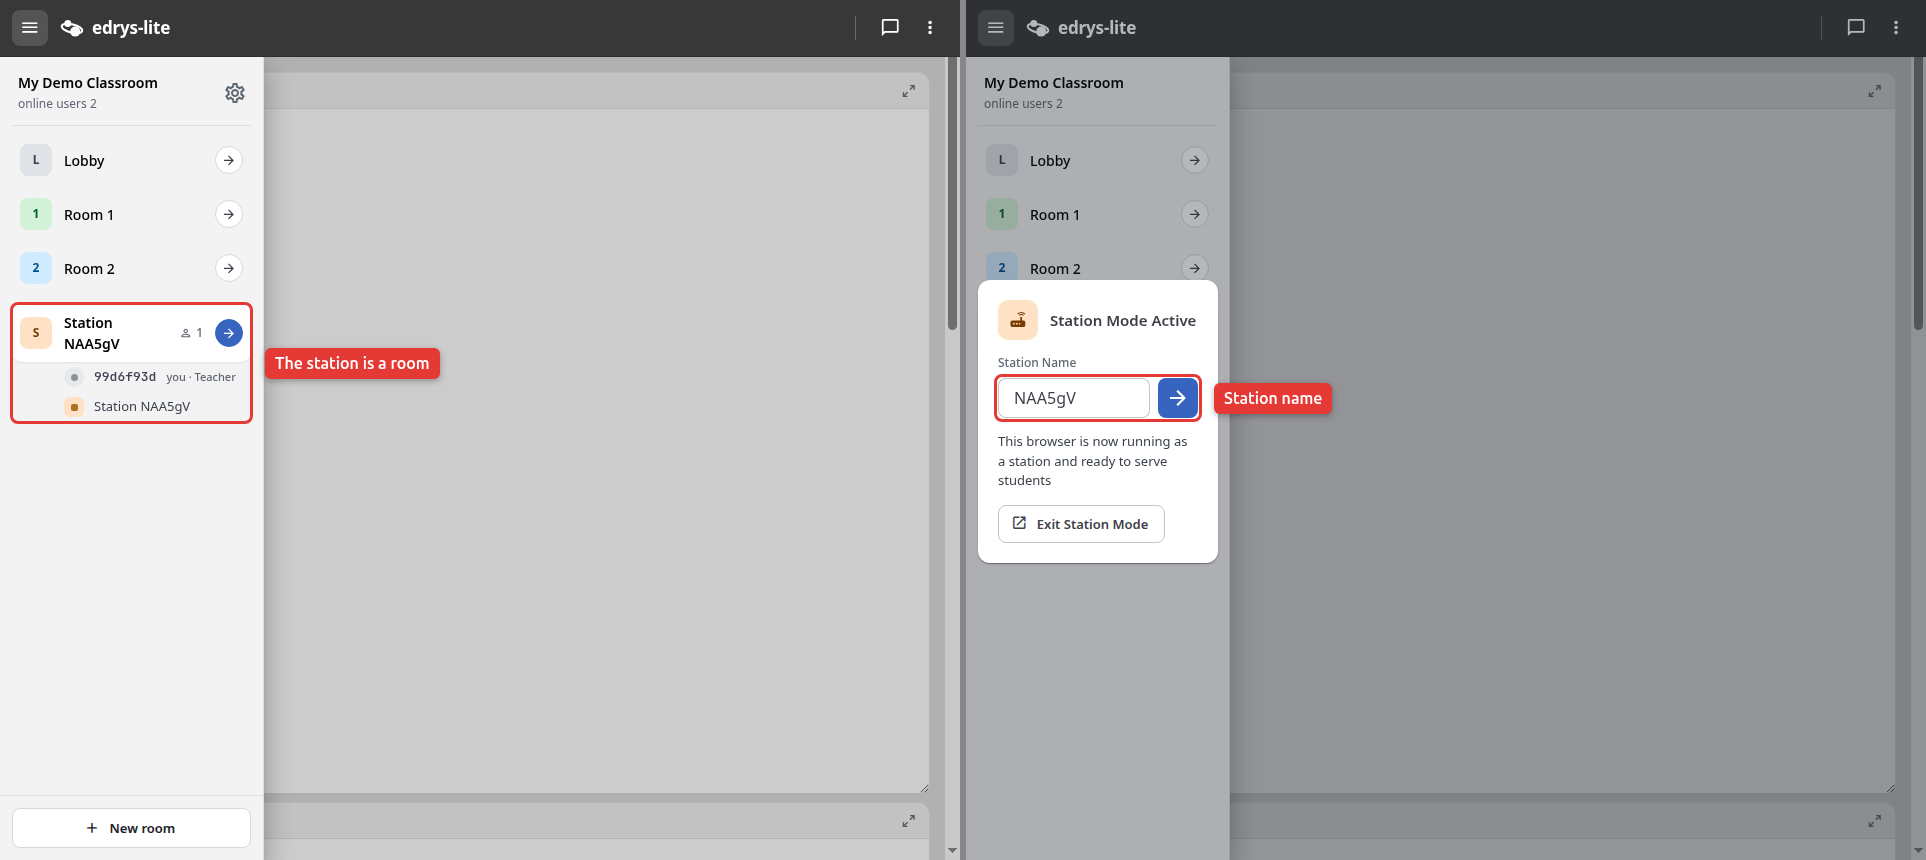
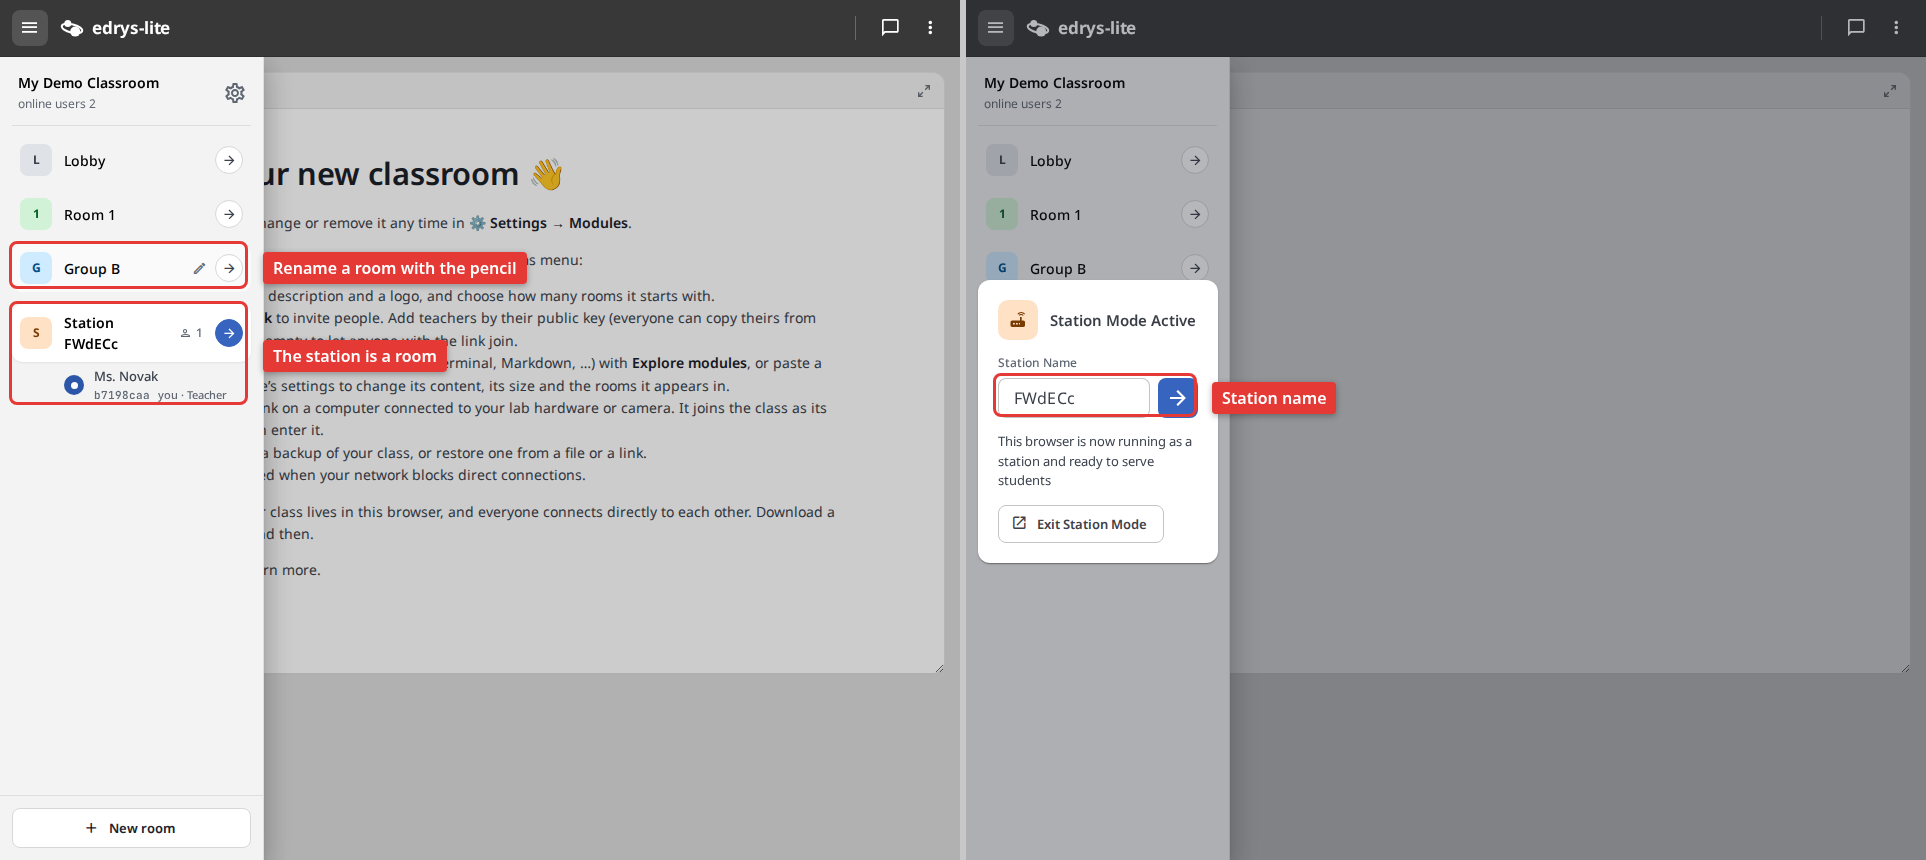
Document room renaming and user display names, update screenshots

diff --git a/README.md b/README.md
@@ -107,6 +107,8 @@ A short version of the ID is shown there; the copy button next to it copies the 
 - Your ID is tied to **this browser**. Another browser, another device, or a private window gives you a different ID.
 - Clearing the site data of your browser deletes your ID and the classrooms stored in it. Download a backup of your classrooms first (see [Backup, Restore and Templates](#Backup%2C-Restore-and-Templates)).
 - The same menu also lets you switch the language of the interface and the theme: `Light`, `Dark`, or `System` to follow your device.
+- In the `Display name` field of the menu you can choose the name others see, up to 32 characters. It is saved in this browser and applies in every classroom; clear the field to go back to your short ID. Stations have their own names (see [Opening a Station](#Opening-a-Station)).
+- A display name is not checked and does not have to be unique, so the short ID always stays visible next to it. Your role never depends on your name: someone called "Teacher" is still shown as a student.
 
 </section>
 
@@ -115,7 +117,7 @@ A short version of the ID is shown there; the copy button next to it copies the 
     --{{0}}--
 Visit https://edrys-labs.github.io and click on `Create a class`.
 By the way, the buttons in the footer lead to the project on GitHub, to this documentation and to the blog.
-The menu with the three dots (⋮) in the top right corner holds your User ID, the language and the theme.
+The menu with the three dots (⋮) in the top right corner holds your User ID, your display name, the language and the theme.
 
 ![edrys-lite](images/edrys-page.png)
 
@@ -193,7 +195,9 @@ The number of rooms defines how many numbered rooms (Room 1, Room 2, ...) the cl
 - Raising the number adds the new rooms as soon as you save.
 - Lowering it removes the rooms above the new number. People in a removed room are moved back to the Lobby.
 - A classroom can have up to 50 rooms.
-- The owner can also add a room with the `New room` button at the bottom of the room list.
+- The owner and teachers can also add a room with the `New room` button at the bottom of the room list.
+- The owner and teachers can rename a numbered room with the pencil button that appears when you point at it in the room list, for example `Room 2` to `Group B`. Clear the name to go back to the number. The modules of the room and their content stay as they are.
+- A room name can have up to 40 characters and must be unique. It cannot contain `,` or `*`, and it cannot be `Lobby`, `Station ...` or `Room <number>`.
 
 </section>
 
@@ -304,6 +308,7 @@ Below them, the `As text` field shows the same as a comma separated list, which 
     --{{1}}--
 For example, `lobby, Room 1, Room 2` shows a module in the Lobby and the first two rooms, and `station, station-only` shows it only to the station device, e.g. for a hardware connection that students should not see.
 `teacher-only` and `station-only` have no button; type them into the text field.
+A renamed room matches both its new name and its number, so `Group B` and `Room 2` mean the same room and existing labs keep working. A module that lists a room by a name you later change stops showing there; edrys-lite warns you about this when you rename the room.
 If no module is configured for a room, the room shows a short note instead.
 
 
@@ -431,8 +436,8 @@ Each room has its own state, so different groups can work in different rooms wit
 
 <section>
 
-- **Room list:** Below each room you see who is in it. You are marked with `you`, and teachers and visitors with their role; everyone else is a student. Stations have their own mark.
-- **Chat:** The chat button in the top bar opens the classroom chat. A badge tells you when new messages have arrived. Messages can be formatted with Markdown.
+- **Room list:** Below each room you see who is in it. Someone who chose a display name is shown with it, and their short ID below. Your own row has a colored circle and is marked with `you`, and teachers and visitors with their role; everyone else is a student. Stations have their own mark.
+- **Chat:** The chat button in the top bar opens the classroom chat. A badge tells you when new messages have arrived. Messages can be formatted with Markdown. Each message shows the display name its author had when sending it, next to their short ID.
 - **Full screen:** The button in the top right corner of a module expands it to the whole window; press it again to leave full screen.
 - **Connection:** If your connection to the classroom is lost, a `Reconnecting…` notice appears in the top bar. edrys-lite reconnects by itself.
 
@@ -836,6 +841,7 @@ edrys-lite works without user accounts and without a central server that stores 
 - **No tracking:** There is no sign-up, no password, and no data collection. Classrooms are stored in the browsers of their participants.
 - **Signed changes:** The classroom setup, the rooms, the chat and who is present are signed with the key of their author. Every participant's browser checks these signatures and ignores anything that was not signed by someone allowed to make that change.
 - **Owner check:** The owner part of the classroom link lets a newcomer verify that the setup comes from the real owner.
+- **Display names:** Anyone can choose any display name. To be sure who someone is, go by the short ID and the role shown next to it.
 - **Members list:** Only teachers can change the setup. If you list your students, nobody else can take part (see [Members](#Members)).
 - **Safe content:** Chat messages and descriptions are shown as text, so they cannot run code in other people's browsers. Modules run isolated from the classroom page.
 - **Tutor:** Only if a teacher switches it on, an AI on that teacher's computer answers students' questions. The conversation is encrypted between the student and the teacher's tab, and the teacher can read it (see [The Tutor for Students](#The-Tutor-for-Students)).
@@ -1238,7 +1244,7 @@ This reactive state object represents the overall classroom environment by provi
 
 ```js
 // Users currently present in the classroom, keyed by their ID:
-// { "<id>": { displayName, room, role }, ... }
+// { "<id>": { displayName, username, room, role }, ... }
 console.log(Edrys.liveClass.users);
 // Rooms of the classroom, keyed by room name, each with the shared
 // state of its modules: { "Lobby": { ... }, "Room 1": { ... }, ... }
@@ -1257,13 +1263,15 @@ console.log(Edrys.liveClass.rooms);
 __Reactive object representing the live room state.__
 
     --{{6}}--
-This reactive object holds the shared state of the current room, i.e. everything the modules in this room stored with `Edrys.getState`, as a plain object. It does not contain the room's name; that is `Edrys.liveUser.room`.
+This reactive object holds the shared state of the current room, i.e. everything the modules in this room stored with `Edrys.getState`, as a plain object. It does not contain the room's name; that is `Edrys.liveUser.room`, which stays `Room 2` when a teacher renames the room. To show the room's name to people, use `Edrys.roomLabel`.
 
 ```js
 // Shared state of the current room, keyed by state key
 console.log(Edrys.liveRoom);
-// Name of the current room
+// Name of the current room, for keys and comparisons
 console.log(Edrys.liveUser.room);
+// Name to show for the current room, which teachers can change
+console.log(Edrys.roomLabel);
 ```
 
 ---
@@ -1278,11 +1286,15 @@ console.log(Edrys.liveUser.room);
 __Reactive object representing the live user state.__
 
     --{{7}}--
-This reactive state object stores personalized data about the current user, such as their display name and the room they are occupying. It can be undefined for a moment while the user is joining, so check it before use.
+This reactive state object stores personalized data about the current user, such as their display name and the room they are occupying. It can be undefined for a moment while the user is joining, so check it before use. To identify a user, for example as a key in stored data, use `Edrys.username`, not a name.
 
 ```js
-// User's display name
+// User's short ID, or a station's name
 console.log(Edrys.liveUser?.displayName);
+// The name the user chose, or null; not unique, and it can change at any time
+console.log(Edrys.liveUser?.username);
+// What to show to people
+console.log(Edrys.liveUser?.username || Edrys.liveUser?.displayName);
 // User's current room
 console.log(Edrys.liveUser?.room);
 // User's role: "teacher", "student" or "station"
@@ -1566,7 +1578,7 @@ Edrys.onReady(() => {
   const awareness = Edrys.getState("code", "Awareness");
 
   awareness.setLocalStateField("user", {
-    name: Edrys.liveUser?.displayName,
+    name: Edrys.liveUser?.username || Edrys.liveUser?.displayName,
     color: "#ff8800",
   });
 
@@ -1898,7 +1910,7 @@ main: |-
   Edrys.onReady(() => {
     const greeting = Edrys.module.config?.greeting || "Hello"
     document.getElementById("greeting").textContent =
-      `${greeting}, ${Edrys.liveUser?.displayName}!`
+      `${greeting}, ${Edrys.liveUser?.username || Edrys.liveUser?.displayName}!`
   })
 ```
 
